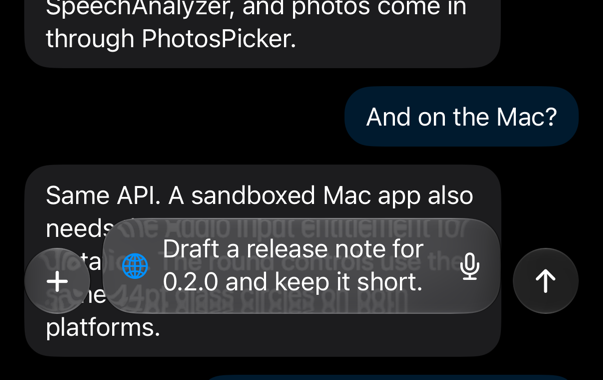
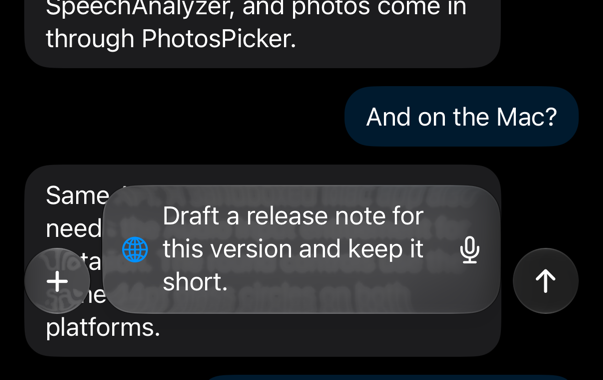
Keep the example chat version-agnostic; move device testing above the license
Screenshots regenerated with the new copy.

Changed region(s): [[0.1493, 0.4632, 0.8358, 0.7816], [0.7463, 0.6079, 0.806, 0.7526]]

diff --git a/Example/ComposerShots/Sources/App.swift b/Example/ComposerShots/Sources/App.swift
@@ -19,7 +19,7 @@ let script: [Message] = [
     Message(mine: true, text: "Can you summarise the last three commits on main?"),
     Message(mine: false, text: "Sure. The composer moved into its own package, AgentKit got a build fix after the AzureDevOpsKit move, and the Norwegian speech presets landed."),
     Message(mine: true, text: "Nice. Anything that still needs a tag?"),
-    Message(mine: false, text: "GlassComposer 0.2.0 is tagged. The three apps already point at it."),
+    Message(mine: false, text: "GlassComposer is tagged. The three apps already point at it."),
     Message(mine: true, text: "What does the composer need from the host app?"),
     Message(mine: false, text: "Two Info.plist keys: NSMicrophoneUsageDescription and NSSpeechRecognitionUsageDescription. Dictation runs on device through SpeechAnalyzer, and photos come in through PhotosPicker."),
     Message(mine: true, text: "And on the Mac?"),
@@ -57,7 +57,7 @@ struct ShotScreen: View {
         }
         .onAppear {
             switch shot {
-            case "typed", "accessory": text = "Draft a release note for 0.2.0 and keep it short."
+            case "typed", "accessory": text = "Draft a release note for this version and keep it short."
             case "sending": text = ""
             default: break
             }

diff --git a/README.md b/README.md
@@ -133,12 +133,12 @@ translations are welcome. Strings you pass in (`placeholder`, menu titles,
 
 Swift 6 language mode, swift-tools 6.0.
 
-## License
-
-MIT. See `LICENSE`.
-
 ## Device testing
 
 `DEVICE-TESTING.md` lists what only a real iPhone or Mac can verify:
 dictation permissions and locales, audio-session behaviour, interruptions,
 attachments, VoiceOver, and the macOS chrome.
+
+## License
+
+MIT. See `LICENSE`.
